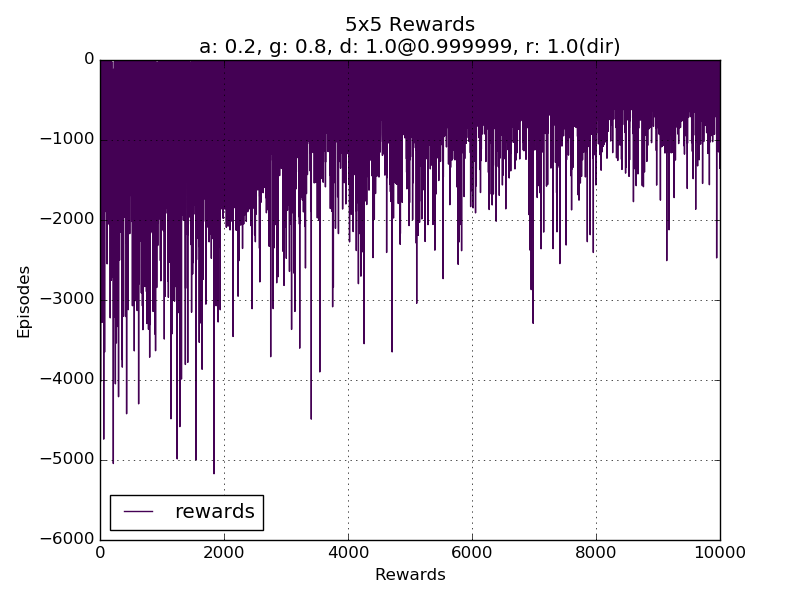
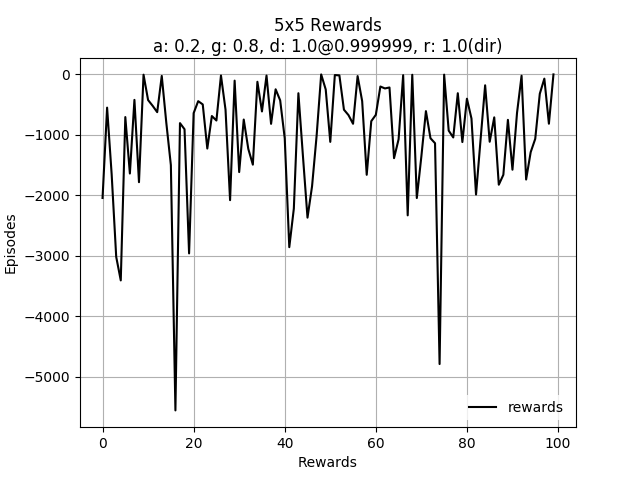
updated

diff --git a/Assignment4/mdp_test.py b/Assignment4/mdp_test.py
@@ -358,7 +358,8 @@ class part1():
                     [q.episode_iterations],
                     [None],
                     ['iterations'],
-                    cm.viridis(np.linspace(0, 1, 1)),
+                    #cm.viridis(np.linspace(0, 1, 1)),
+                    ['black'],
                     [''],
                     title,
                     'Iterations',
@@ -371,7 +372,8 @@ class part1():
                     [q.episode_reward],
                     [None],
                     ['rewards'],
-                    cm.viridis(np.linspace(0, 1, 1)),
+                    #cm.viridis(np.linspace(0, 1, 1)),
+                    ['black'],
                     [''],
                     title,
                     'Rewards',
@@ -419,13 +421,13 @@ class part1():
             fn = './output/' + str(grid.shape[0]) + 'x' + str(grid.shape[1]) + '_layout.png'        
             ph.plot_layout(grid, title, fn)
             
-            self.run_and_plot_qlearner(grid, d=True, k=1.0, alpha=0.2, gamma=0.8, rar=1.00, rard=0.999999, n_restarts=10000, n_iter=1000000)
+            #self.run_and_plot_qlearner(grid, d=True, k=1.0, alpha=0.2, gamma=0.8, rar=1.00, rard=0.999999, n_restarts=10000, n_iter=1000000)
 
             self.run_value_iteration_and_plot(grid, k=1.0, d=True)
             
             self.run_policy_iteration_and_plot(grid, k=1.0, d=True)
             
-            '''
+            
             for k in [1.00, 0.90, 0.85, 0.80, 0.75]:
                 for d in [False, True]:
                     for alpha in [0.1, 0.3, 0.5, 0.7, 0.9]:
@@ -434,7 +436,7 @@ class part1():
                                 self.run_and_plot_qlearner(grid, d, k, alpha, gamma, rar=0.99, rard=rard)
                             
             print('done qlearner')
-            '''
+            
             
         '''
         ## qlearning
